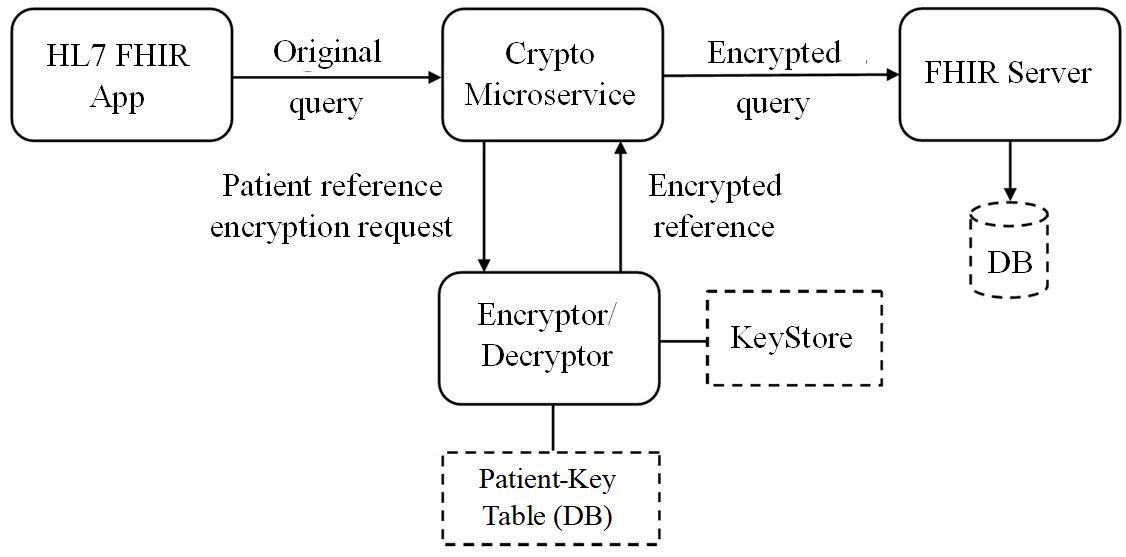
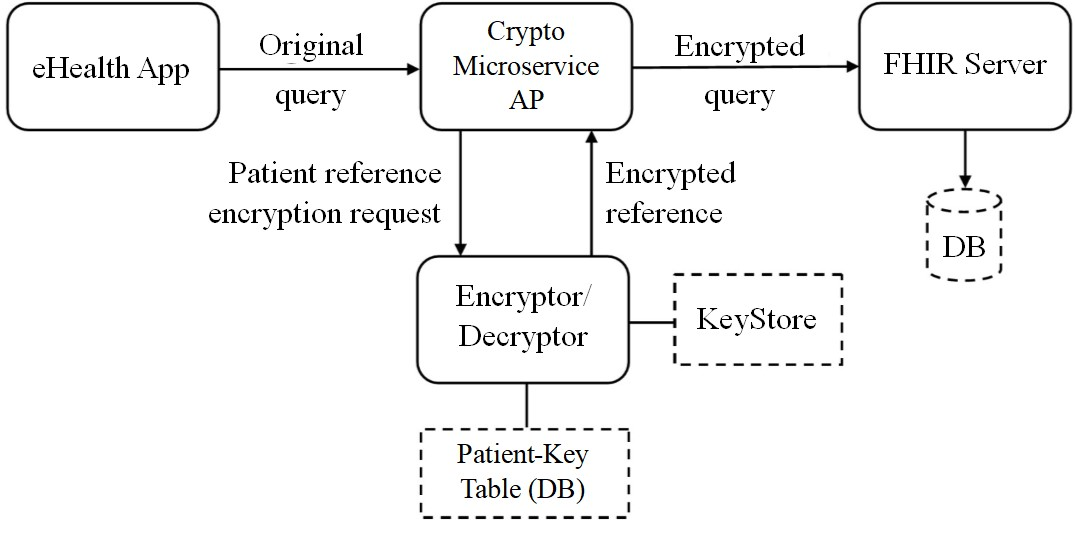
Markdown Edits

diff --git a/README.md b/README.md
@@ -11,10 +11,30 @@ The goal is that the DB server only stores encrypted data but never gets a decry
 The microservice also enables to change the encryption key for the patient (see [Encryption Key Change](#keyChange)).
 
 # Architecture
+## Default architecture
+The most basic architecture described in <a href="https://www.hl7.org/fhir/" target="_blank">HL7 FHIR Specification</a> 
+only requires 2 components - eHealth application using HL7 FHIR standard and FHIR Server, which exposes FHIR RESTful API interface.
+
+<img src="img/basicArchitecture.JPG" alt="Basic Architecture"  height="550">
+
+## HL7 FHIR Resource Encryptor/Decryptor architecture
+The main goal of this solution is, that there are no changes needed in the eHealth app (except for changing the access point to Crypto Microservice).
+
+In this architecture, 2 additional components are added to the default setup - **Crypto Microservice Access Point** and **Encryptor/Decryptor Microservice**.
+
+<img src="img/appArchitectureNew.jpg" alt="App Architecture"  height="550">
+
+**Crypto Microservice AP** serves as access point of the entire solution and exposes (a subset of) standardized HL7 FHIR API interface. Its job is to route reuqests between the eHealth app, Encryptor/Decryptor and FHIR Server.
+
+**Encryptor/Decryptor Microservice** ensures that the queries can be executed in the same (unencryped) way, no matter if some data being queried is encrypted or not in the DB - so no change is needed in the eHealth App. It is the only component, that can access the KeyStore. It doesn't store any data, and it doesn't communicate directly with FHIR Server or database. The task of this microservice is, put simply, to "translate" between encrypted and unencrypted data.
+
+In the **Patient-Key Table** there aren't any actual encryption keys being stored - this table only contains Key Aliases of the encryption keys, safely stored in the (Java) **Keystore**.
+
+There aren't any significant changes in the **FHIR server**. The only difference is, that in this setup, it communicates with Crypto Microservice AP instead of with the eHealth app directly.
 
 
-# Features
-## 0. Build
+
+# 0. Build
 - Project is built with Maven, **pom.xml** is in the root folder.
 - Last version was tested with Tomcat 9.0.4. 
     - HTTP port: 7050
@@ -22,26 +42,66 @@ The microservice also enables to change the encryption key for the patient (see 
 - All addresses are defined in **com.diplomska.constants --> address.java**
 - This solution needs MySQL database in order to work. SQL file (DB structure and all INSERT statements for test data) is in **com.diplomska.testniPrimeri --> db.sql** file.
 
-## 1. POST resources
-### 1.1 Patient
+# 1. POST resources
+## 1.1 How does it work?
+1. Assume *Observation* resource is created by the **eHealth App**, containing unencrypted *Patient* reference.
+1. *Observation* resource POST request is sent to the **Crypto Microservice**, which redirects it to **Encryptor/Decryptor**.
+1. **Encryptor/Decryptor (ED)** detects unencrypted *Patient* reference in the *Observation* resource.
+    1. **ED** checks in the **Patient-Key Table**, which key is used for this *Patient*'s medical record.
+    1. **ED** accesses the **KeyStore**, gets the right key and encrypts the *Patient* reference. 
+    1. When *Patient* reference is encrypted, **ED** modifies the resource and replaces unencrypted *Patient* reference with the encrypted one.
+1. Encrpted *Observation* resource POST request is sent back to **Crypto Microservice AP**
+1. **Crypto Microservice AP** redirects *Observation* resource POST request with encrypted *Patient* reference to the **FHIR Server**, which accesses the DB and stores it.
+1. **FHIR Server**'s response is then sent back to **eHealth** app. 
+    - In case of success, it returns unique identifier of the *Observation* resource, 
+    - In case of failure it returns an error message.
+
+<img src="img/POST_request.jpg" alt="POST Request"  height="550">
+
+## 1.2 Examples (POST)
+### 1.2.1 POST Patient
 **POST** request with a valid FHIR Patient resource (in JSON format) to http://localhost:7050/hapi.do/Patient \
 *or*\
-**testniPrimeri.java --> addPatient()** (Creates a sample FHIR Patient resource (in JSON format) and sends the POST request to the address above)
+**testniPrimeri.java --> addPatient()** (Demo, which creates a sample FHIR Patient resource (in JSON format) and sends the POST request to the address above)
 
-### 1.2 Observation
+### 1.2.2 POST Observation
 **POST** request with a valid FHIR Observation resource (in JSON format, with correctly added reference extension) to http://localhost:7050/hapi.do/Observation \
 *or*\
 **testniPrimeri.java --> addObservationToPatient()** (Creates a sample FHIR Observation resource (in JSON format) and sends the POST request to the address above. 
 Patient reference is encrypted before sending the Observation to the server. The server never gets a non-encrypted version of the Patient reference).
 
-### 1.3 Condition
+### 1.2.3 POST Condition
 **POST** request with a valid FHIR Condition resource (in JSON format, with correctly added reference extension) to http://localhost:7050/hapi.do/Condition \
 *or*\
 **testniPrimeri.java --> addConditionToPatient()** (Creates a sample FHIR Condition resource (in JSON format) and sends the POST request to the address above. 
 Patient reference is encrypted before sending the Condition to the server. The server never gets a non-encrypted version of the Patient reference).
 
-## 2. GET resources
-### 2.1 Patient
+# 2. GET resources
+## 2.1 How does it work?
+### GET request
+1. Assume *Observation* resource is being queried by the **eHealth App**. The only encrypted attribute of the *Observation* resource in the **DB** is encrypted *Patient* reference.
+1. *Observation* resource GET request is intercepted by **Crypto Microservice**, which redirects it to **Encryptor/Decryptor**.
+1. **Encryptor/Decryptor (ED)** detects unencrypted *Patient* reference in the GET request.
+    1. **ED** checks in the **Patient-Key Table**, which key is used for this *Patient*'s medical record.
+    1. **ED** accesses the **KeyStore**, gets the right key and encrypts the *Patient* reference. 
+    1. When *Patient* reference is encrypted, **ED** modifies the GET request with replacing unencrypted *Patient* reference with the encrypted one.
+1. *Observation* GET request with encrpted *Patient* reference is sent back to **Crypto Microservice AP**
+1. **Crypto Microservice AP** redirects *Observation* GET request with encrypted *Patient* reference to the **FHIR Server**, which accesses the DB.
+
+<img src="img/GET_request.JPG" alt="GET Request"  height="550">
+
+### GET response
+
+1. **FHIR Server**'s response is then sent back to **Crypto Microservice AP** 
+1. **Crypto Microservice AP** replaces encrypted *Patient* reference with the unencrypted one in the *Observation* resource.  
+1. **eHealth App** receives a reply:
+    - In case of success, **eHealth** app receives the *Observation* resource with decrypted *Patient* reference
+    - In case of failure **eHealth** app receives an error message.
+    
+<img src="img/GET_request.JPG" alt="GET Request"  height="550">
+
+## 2.2 Examples (GET)
+### 2.2.1 GET Patient
 - Search by ID: **GET** request, example for a patient with *_id = 100* http://localhost:7050/hapi.do/Patient?_id=100 \
 *or*\
 **testniPrimeri.java --> getPatientById()**
@@ -50,19 +110,19 @@ Patient reference is encrypted before sending the Condition to the server. The s
 *ali*\
 **testniPrimeri.java --> getPatientByGivenFamily()**
 
-### 2.2 Observation
+### 2.2.2 GET Observation
 *When a resource (of type Observation or Condition) is requested by an authorized user, it contains a decrypted Patient reference. But on the HAPI server, a Patient reference is never saved in an unencrypted form* 
 - Searching by Patient ID (get all Observations for a patient): **GET** request, example for a patient with *_id = 100* http://localhost:7050/hapi.do/Observation?patient=100\
 *or*\
 **testniPrimeri.java --> getAllObservationsForPatient()**
 
-### 2.3 Condition
+### 2.2.3 GET Condition
 *When a resource (of type Observation or Condition) is requested by an authorized user, it contains a decrypted Patient reference. But on the HAPI server, a Patient reference is never saved in an unencrypted form*
 - Searching by Patient ID (get all Conditions for a patient): **GET** request, example for a patient with *_id = 100* http://localhost:7050/hapi.do/Condition?patient=100\
 *or*\
 **testniPrimeri.java --> getAllConditionsForPatient()**
 
-## 3. Encryption key change
+# 3. Encryption key change
 <a name="keyChange"></a>
 - A new encryption key can be generated with API (Example for a key with a name *sampleKey* http://localhost:7050/crypto.do/GenerateNewKey?keyAlias=sampleKey).
 - All resources of some patient are encrypted with the *same* key. (Currently, there are 15 test keys in the KeyStore: key1 - key15).
